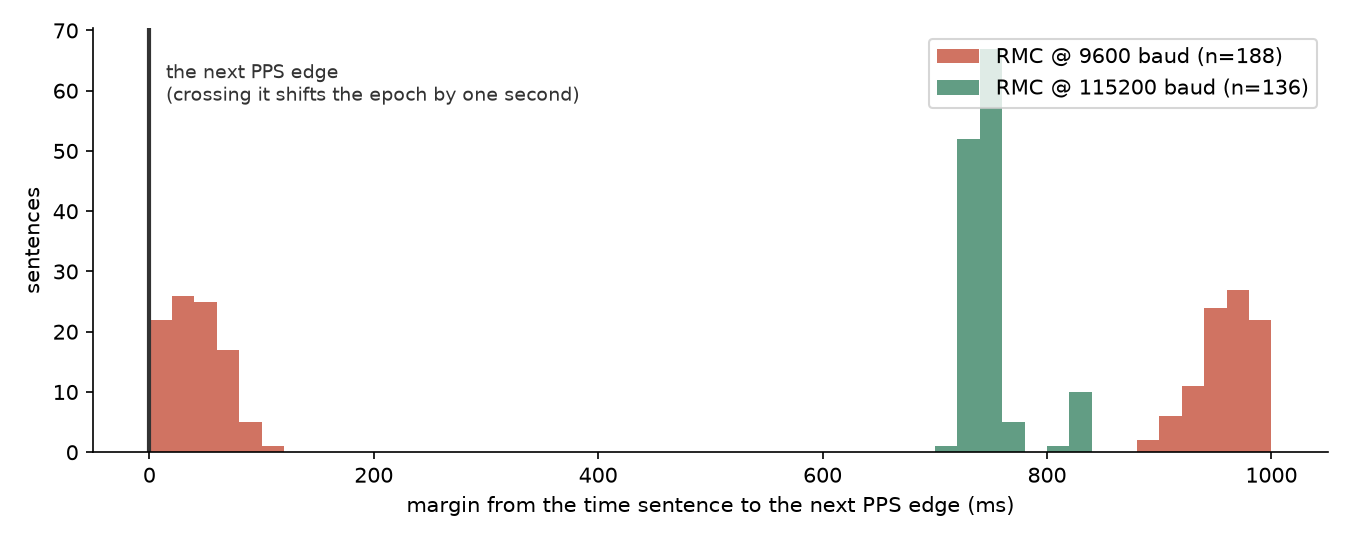
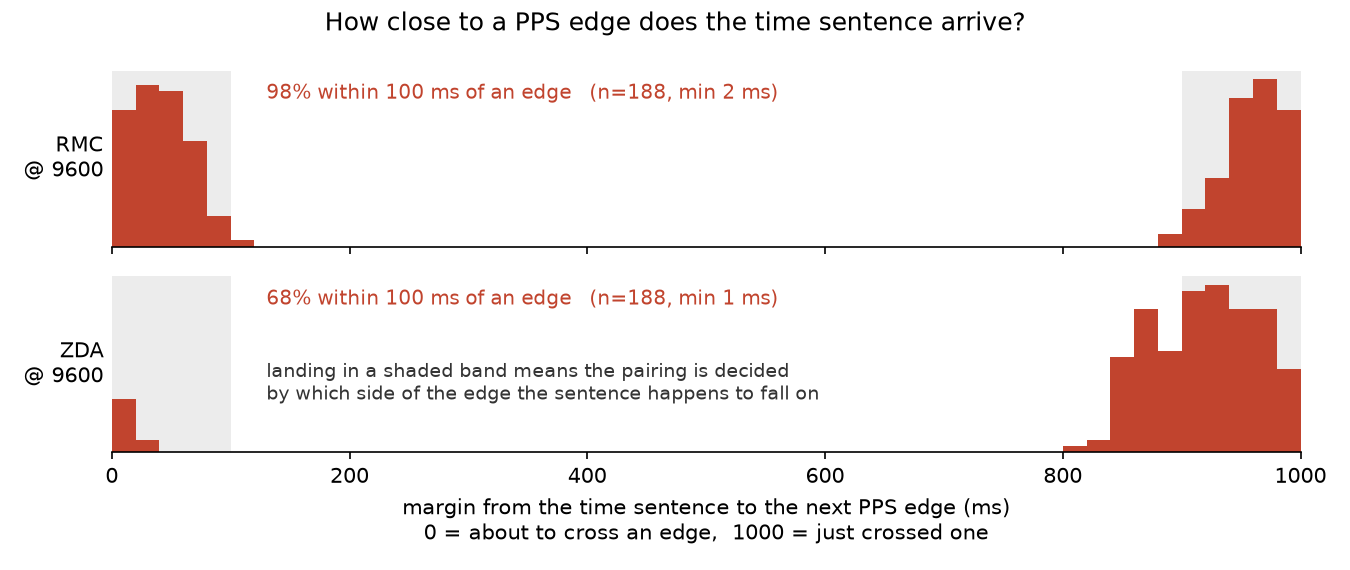
docs: make the histogram say what it is a distribution of, and what follows
Three fixes to the first figure and the margin figure.

`fig-epoch.svg` labelled its sentences ZDA, thirty lines before ZDA is
introduced and while the surrounding text is still describing the generic
mechanism. The boxes now carry only the time value, under the row label the
prose already uses.

The bandwidth figures priced the burst in bits (8160) while the rough
calculation in the prose runs in characters and milliseconds, so the figure
introduced a number the reader had not been given. Both are now in characters:
816 文字 = 850 ms (85%), with the bit-per-character rule kept as the footnote it
derives from.

The margin histogram was two series overlaid on one axis with no statement of
what was distributed or what to take from it. Now one panel per condition, both
edges of the second shaded as the same boundary seen from either side, and the
share of sentences landing in those bands printed on each panel: RMC 98%, ZDA
68%. That is the finding the section was asserting in prose, and it was the one
thing the picture did not show.

Its 115200 panel and table row are gone too — same reason the burst and
bandwidth comparisons moved: the fix should not appear while the problem is
being laid out. The fast case is already stated where the rate is raised.

Claude-Session: https://claude.ai/code/session_019RSxURXQrEdaZnzWdFm1sE

diff --git a/docs/report/pps-nmea-pairing/logs/pairing/plot_pairing.py b/docs/report/pps-nmea-pairing/logs/pairing/plot_pairing.py
@@ -167,43 +167,63 @@ def fig_timeline(panels, title, path: Path):
     print(f"wrote {path}")
 
 
-def fig_margin(slow_m, fast_m, path: Path):
-    """次エッジまでの残りの分布。9600 は二峰、115200 は一峰。
+# 境界のすぐ近くとみなす幅。ここに落ちたセンテンスは、バーストのわずかな揺れで
+# 境界の反対側へ移りうる。
+NEAR_MS = 100
 
-    どちらの系列も RMC である。本文では ZDA も扱うので、凡例でセンテンス種別まで明示して
-    「センテンスによらない性質」と誤読されないようにする。
+
+def fig_margin(series, path: Path):
+    """時刻センテンスが届いてから次の PPS エッジまでの残り時間の分布。
+
+    条件ごとに段を分ける。1 枚に重ねると、山がどちらの系列のものか読み取れないうえ、
+    「センテンスの種別によらない性質」と誤読されやすい。
+
+    0 ms と 1000 ms は同じ境界を両側から見た値である。残りが 0 に近いセンテンスは
+    エッジを跨ぐ寸前におり、1000 に近いセンテンスは跨いだ直後にいる。どちらも
+    「境界の際」なので、両端に同じ幅の帯を敷いて、そこに入った割合を出す。
     """
-    fig, ax = plt.subplots(figsize=(9, 3.6))
-    bins = [i / 50 for i in range(51)]
-    ax.hist(
-        [m * 1000 for _, m in slow_m],
-        bins=[b * 1000 for b in bins],
-        color=SLOW_C,
-        alpha=0.75,
-        label=f"RMC @ 9600 baud (n={len(slow_m)})",
+    fig, axes = plt.subplots(
+        len(series), 1, figsize=(9, 1.9 * len(series)), sharex=True, squeeze=False
     )
-    ax.hist(
-        [m * 1000 for _, m in fast_m],
-        bins=[b * 1000 for b in bins],
-        color=FAST_C,
-        alpha=0.75,
-        label=f"RMC @ 115200 baud (n={len(fast_m)})",
-    )
-    ax.axvline(0, color="#333", lw=2)
-    ax.annotate(
-        "the next PPS edge\n(crossing it shifts the epoch by one second)",
-        (0, ax.get_ylim()[1] * 0.95),
-        textcoords="offset points",
-        xytext=(8, -6),
+    for ax, (label, margins, colour) in zip(axes[:, 0], series):
+        v = [m * 1000 for _, m in margins]
+        near = sum(1 for x in v if x < NEAR_MS or x > 1000 - NEAR_MS)
+        ax.axvspan(0, NEAR_MS, color="#999", alpha=0.18, lw=0)
+        ax.axvspan(1000 - NEAR_MS, 1000, color="#999", alpha=0.18, lw=0)
+        ax.hist(v, bins=[i * 20 for i in range(51)], color=colour)
+        ax.set_ylabel(label, rotation=0, ha="right", va="center", fontsize=10)
+        ax.text(
+            130,
+            ax.get_ylim()[1] * 0.84,
+            f"{near / len(v) * 100:.0f}% within {NEAR_MS} ms of an edge"
+            f"   (n={len(v)}, min {min(v):.0f} ms)",
+            ha="left",
+            fontsize=9.5,
+            color=colour,
+        )
+        for side in ("top", "right", "left"):
+            ax.spines[side].set_visible(False)
+        ax.set_yticks([])
+
+    # 説明は最終段の空いている左側に置く。上段に置くと、その段の数値と重なる。
+    axes[-1, 0].text(
+        130,
+        axes[-1, 0].get_ylim()[1] * 0.52,
+        "landing in a shaded band means the pairing is decided\n"
+        "by which side of the edge the sentence happens to fall on",
+        ha="left",
         va="top",
         fontsize=9,
         color="#333",
     )
-    ax.set_xlabel("margin from the time sentence to the next PPS edge (ms)")
-    ax.set_ylabel("sentences")
-    ax.legend(loc="upper right")
-    for side in ("top", "right"):
-        ax.spines[side].set_visible(False)
+    axes[-1, 0].set_xlim(0, 1000)
+    axes[-1, 0].set_xlabel(
+        "margin from the time sentence to the next PPS edge (ms)\n"
+        "0 = about to cross an edge,  1000 = just crossed one"
+    )
+    fig.suptitle(
+        "How close to a PPS edge does the time sentence arrive?", fontsize=12
+    )
     fig.tight_layout()
     fig.savefig(path, dpi=150)
     print(f"wrote {path}")
@@ -273,7 +293,13 @@ def main() -> int:
         "The same second at 115200 baud",
         OUT / "fig-burst-115200.png",
     )
-    fig_margin(slow_rmc, fast_rmc, OUT / "fig-margin.png")
+    fig_margin(
+        [
+            ("RMC\n@ 9600", slow_rmc, SLOW_C),
+            ("ZDA\n@ 9600", slow_zda, SLOW_C),
+        ],
+        OUT / "fig-margin.png",
+    )
     return 0
 
 

diff --git a/docs/report/pps-nmea-pairing/README.md b/docs/report/pps-nmea-pairing/README.md
@@ -134,19 +134,18 @@ ZDA に替えても誤りが残ったのはこれである。
 
 ## 次のエッジまでの余裕
 
-その残り時間を 188 本ぶん測ると、9600 bps の分布は二つの山に割れる。
+時刻センテンスが届いてから次のエッジまで、どれだけ残っているかを 188 本ぶん測ると以下のようになる。
 
-![次エッジまでの余裕の分布](fig-margin.png)
+![次のエッジまでの余裕の分布](fig-margin.png)
 
-0 ms の壁に張り付いた山と、1000 ms 側の山である。
-後者はエッジを跨いだあとに届いたぶんで、同じ量を反対側から見ている。
-分布そのものが境界をまたいでいる。
+0 ms と 1000 ms は、同じ境界を両側から見た値である。
+残りが 0 に近いセンテンスは境界を跨ぐ寸前におり、1000 に近いセンテンスは跨いだ直後にいる。
+RMC は 98%、ZDA は 68% が、境界から 100 ms 以内に落ちている。
 
 | baudrate | センテンス | 平均 | 標準偏差 | 最小 |
 |---|---|---:|---:|---:|
 | 9600 | RMC | 490 ms | 460 ms | **2 ms** |
 | 9600 | ZDA | 866 ms | 218 ms | **1 ms** |
-| 115200 | RMC | 749 ms | 26 ms | 718 ms |
 
 最小 1 ms から 2 ms は、対応付けがコイン投げになっているということである。
 衛星が増えて GSV が伸びれば、バーストは後ろに延びて境界を越える。
